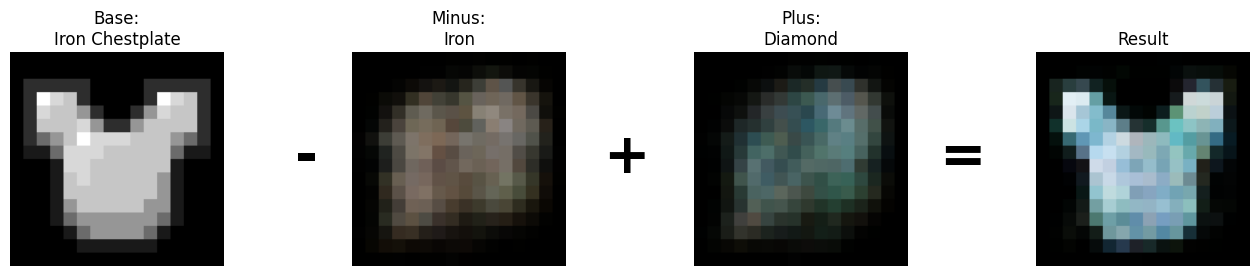
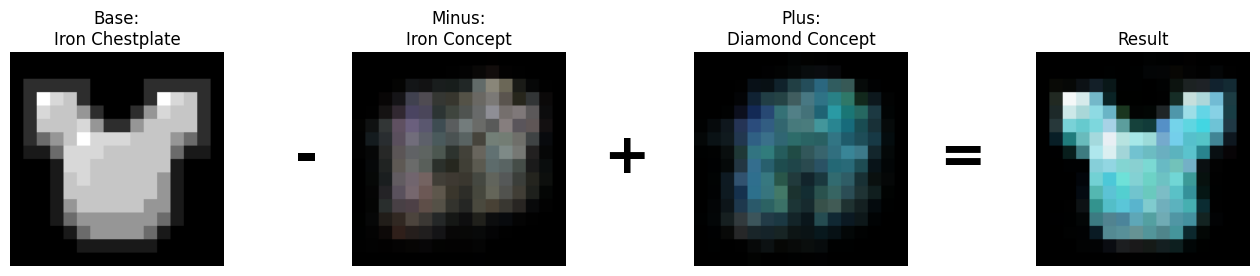
feat: add OpenMP multithreading and update demonstration results

diff --git a/src/math_extra.c b/src/math_extra.c
@@ -1,5 +1,6 @@
 #include <stdlib.h>
 #include <math.h>
+#include <omp.h>
 #include "math_extra.h"
 
 /*
@@ -10,6 +11,7 @@ C = (dim1, dim3)
 Matrices are stored in row-major order.
 */
 void matmul(const float* A, const float* B, float* C, int dim1, int dim2, int dim3) {
+    #pragma omp parallel for collapse(2)
     for (int i=0; i<dim1; ++i) {
         for (int j=0; j<dim3; ++j) {
             float sum = 0.0;
@@ -28,6 +30,7 @@ B = (dim2, dim3)
 C = (dim1, dim3)
 */
 void matmul_1t(const float* A, const float* B, float* C, int dim1, int dim2, int dim3) {
+    #pragma omp parallel for collapse(2)
     for (int i=0; i<dim1; ++i) {
         for (int j=0; j<dim3; ++j) {
             float sum = 0.0;
@@ -46,6 +49,7 @@ B = (dim3, dim2)
 C = (dim1, dim3)
 */
 void matmul_2t(const float* A, const float* B, float* C, int dim1, int dim2, int dim3) {
+    #pragma omp parallel for collapse(2)
     for (int i=0; i<dim1; ++i) {
         for (int j=0; j<dim3; ++j) {
             float sum = 0.0;
@@ -63,6 +67,7 @@ A = (dim1, dim2)
 B = (dim2)
 */
 void add_mat_vec(float* A, const float* B, int dim1, int dim2) {
+    #pragma omp parallel for collapse(2)
     for (int i=0; i<dim1; ++i) {
         for (int j=0; j<dim2; ++j) {
             A[i*dim2 + j] = A[i*dim2 + j] + B[j];
@@ -76,6 +81,7 @@ A = (dim1, dim2)
 B = (dim2)
 */
 void sum_axis0(const float* A, float* B, int dim1, int dim2) {
+    #pragma omp parallel for
     for (int j=0; j<dim2; ++j) {
         float sum = 0.0;
         for (int i=0; i<dim1; ++i) {
@@ -98,6 +104,7 @@ b2: beta2 (velocity decay)
 */
 void adam_update(float* params, const float* grads, float* m, float* v, size_t size, float lr, float b1, float b2) {
     const float epsilon = 1e-8;
+    #pragma omp parallel for
     for (size_t i = 0; i < size; ++i) {
         // Update biased first moment estimate
         m[i] = b1 * m[i] + (1.0f - b1) * grads[i];
@@ -157,6 +164,7 @@ void kaiming_init(float* A, size_t N, size_t fan_in) {
 
 float mse_loss(const float* pred, const float* target, size_t size) {
     float loss = 0.0f;
+    #pragma omp parallel for reduction(+:loss)
     for (size_t i = 0; i < size; i++) {
         float diff = pred[i] - target[i];
         loss += diff * diff;
@@ -165,6 +173,7 @@ float mse_loss(const float* pred, const float* target, size_t size) {
 }
 
 void mse_loss_backward(const float* pred, const float* target, float* dloss, size_t size) {
+    #pragma omp parallel for
     for (size_t i = 0; i < size; i++) {
         dloss[i] = 2.0f * (pred[i] - target[i]) / size;
     }
@@ -178,21 +187,20 @@ void im2col(const float* im, float* col, int channels, int height, int width, in
     int out_h = (height + 2 * padding - ksize) / stride + 1;
     int out_w = (width + 2 * padding - ksize) / stride + 1;
     
-    float* col_ptr = col;
-
+    #pragma omp parallel for collapse(3)
     for (int c = 0; c < channels; c++) {
         for (int ky = 0; ky < ksize; ky++) {
             for (int kx = 0; kx < ksize; kx++) {
-                // Fill one row of the col matrix (length out_size)
+                float* col_ptr = col + (c * ksize * ksize + ky * ksize + kx) * (out_h * out_w);
                 for (int y = 0; y < out_h; y++) {
                     for (int x = 0; x < out_w; x++) {
                         int im_y = y * stride - padding + ky;
                         int im_x = x * stride - padding + kx;
                         
                         if (im_y >= 0 && im_y < height && im_x >= 0 && im_x < width) {
-                            *col_ptr++ = im[c * (height * width) + im_y * width + im_x];
+                            col_ptr[y * out_w + x] = im[c * (height * width) + im_y * width + im_x];
                         } else {
-                            *col_ptr++ = 0.0f;
+                            col_ptr[y * out_w + x] = 0.0f;
                         }
                     }
                 }
@@ -210,19 +218,20 @@ void col2im(const float* col, float* im, int channels, int height, int width, in
     int out_h = (height + 2 * padding - ksize) / stride + 1;
     int out_w = (width + 2 * padding - ksize) / stride + 1;
     
-    const float* col_ptr = col;
-
+    #pragma omp parallel for collapse(3)
     for (int c = 0; c < channels; c++) {
         for (int ky = 0; ky < ksize; ky++) {
             for (int kx = 0; kx < ksize; kx++) {
+                const float* col_ptr = col + (c * ksize * ksize + ky * ksize + kx) * (out_h * out_w);
                 for (int y = 0; y < out_h; y++) {
                     for (int x = 0; x < out_w; x++) {
                         int im_y = y * stride - padding + ky;
                         int im_x = x * stride - padding + kx;
                         
-                        float val = *col_ptr++;
+                        float val = col_ptr[y * out_w + x];
                         
                         if (im_y >= 0 && im_y < height && im_x >= 0 && im_x < width) {
+                            #pragma omp atomic
                             im[c * (height * width) + im_y * width + im_x] += val;
                         }
                     }

diff --git a/src/vae.c b/src/vae.c
@@ -113,6 +113,7 @@ void vae_forward(VAE* this, const float* X) {
     
     // Reparameterization
     size_t size = this->batch_size * LATENT_DIM;
+    #pragma omp parallel for
     for (size_t i = 0; i < size; i++) {
         float mu = this->fc_mu->output[i];
         float logvar = this->fc_logvar->output[i];
@@ -161,6 +162,7 @@ float vae_backward(VAE* this, const float* target) {
     
     const float* dL_dz = this->dec_fc->din;
     
+    #pragma omp parallel for reduction(+:kld_loss)
     for (size_t i = 0; i < latent_size; i++) {
         float mu = this->fc_mu->output[i];
         float logvar = this->fc_logvar->output[i];
@@ -190,6 +192,7 @@ float vae_backward(VAE* this, const float* target) {
     // Sum gradients at enc_relu2 output (fork)
     size_t flat_size = this->batch_size * 2048;
     float* combined_din = malloc(sizeof(float) * flat_size);
+    #pragma omp parallel for
     for (size_t i = 0; i < flat_size; i++) {
         combined_din[i] = this->fc_mu->din[i] + this->fc_logvar->din[i];
     }

diff --git a/src/layers/sigmoid.c b/src/layers/sigmoid.c
@@ -27,6 +27,7 @@ void sigmoid_zero_grad(SigmoidLayer* this) {
 }
 
 void sigmoid_forward(SigmoidLayer* this, const float* X) {
+    #pragma omp parallel for
     for (size_t i = 0; i < this->size; i++) {
         this->output[i] = 1.0f / (1.0f + expf(-X[i]));
     }
@@ -35,6 +36,7 @@ void sigmoid_forward(SigmoidLayer* this, const float* X) {
 void sigmoid_backward(SigmoidLayer* this, const float* dout) {
     // dL/dX = dL/dY * Y * (1 - Y)
     // Y is stored in this->output
+    #pragma omp parallel for
     for (size_t i = 0; i < this->size; i++) {
         float y = this->output[i];
         this->din[i] = dout[i] * y * (1.0f - y);

diff --git a/src/train.c b/src/train.c
@@ -6,7 +6,7 @@
 #include "dataset.h"
 
 #define BATCH_SIZE 32
-#define EPOCHS 100
+#define EPOCHS 500
 #define LR 0.001f
 #define ADAM_B1 0.9f
 #define ADAM_B2 0.999f
@@ -72,6 +72,7 @@ int main(void) {
             if (current_batch_size < BATCH_SIZE) break; // Drop last incomplete batch
             
             // Prepare batch
+            #pragma omp parallel for
             for (size_t b = 0; b < BATCH_SIZE; b++) {
                 float* img = dataset_get_image(ds, indices[i + b]);
                 const float* src = img; 

diff --git a/src/layers/relu.c b/src/layers/relu.c
@@ -29,12 +29,14 @@ void relu_zero_grad(ReluLayer* this) {
 
 void relu_forward(ReluLayer* this, const float* X) {
     this->input_cache = X;
+    #pragma omp parallel for
     for (size_t i = 0; i < this->size; i++) {
         this->output[i] = X[i] > 0 ? X[i] : 0.0f;
     }
 }
 
 void relu_backward(ReluLayer* this, const float* dout) {
+    #pragma omp parallel for
     for (size_t i = 0; i < this->size; i++) {
         this->din[i] = (this->input_cache[i] > 0) ? dout[i] : 0.0f;
     }

diff --git a/README.md b/README.md
@@ -1,6 +1,6 @@
 # C-VAE: Convolutional Variational Autoencoder in C
 
-A fully functional Convolutional VAE implemented in pure C from scratch. I trained the VAE with Minecraft item textures, which are very low resolution (16x16), making this project feasible on a CPU. The code is single-threaded.
+A fully functional Convolutional VAE implemented in pure C from scratch. The VAE was trained using Minecraft item textures, which are very low resolution (16x16), making this project feasible on a CPU. The code is multi-threaded using OpenMP.
 
 With a VAE trained on Minecraft items you can do interesting experiments, like interpolating between existing items, generating new ones, and even doing arithmetic in the latent space. For the results section, I chose to do the latter.
 
@@ -13,6 +13,7 @@ The pytorch_poc folder contains a PyTorch proof of concept. It implements the ex
 
 * **No External Dependencies**: Written in standard C. No Matrix libraries or ML frameworks used.
 - **Custom Deep Learning Framework**: Implemented layers (Conv2d, ConvTranspose2d, Affine, ReLU, Sigmoid) with forward/backward passes.
+- **CPU Multi-threaded with OpenMP**: Leveraged OpenMP to parallelize heavy computations.
 - **Architecture**:
     - Encoder: 2x Conv Layers -> 2048 units -> Latent Dim 16.
     - Decoder: Latent Dim 16 -> 2048 units -> 2x Transposed Conv Layers -> Output.
@@ -59,12 +60,12 @@ uv run python extract_textures.py
 This creates `pytorch_poc/mc_items.bin` (binary pixel data) and `pytorch_poc/mc_items.txt` (filenames).
 
 ### 2. Training
-Compile and run the training loop (default 100 epochs):
+Compile and run the training loop (default 500 epochs):
 ```bash
 make
 ./bin/train_vae
 ```
-This saves the trained model weights to `vae_weights.bin`. On an i5-12400 it took 483 seconds (8 min 3 sec) to do 100 epochs. The model used for the demonstration was trained on 100 epochs.
+This saves the trained model weights to `vae_weights.bin`. On an i5-12400 it took 689 seconds (11 min 29 sec) to do 500 epochs. The model used for the demonstration was trained on 500 epochs.
 
 ### 3. Latent Arithmetic Demo
 Perform vector arithmetic in the latent space and generate a result image:
